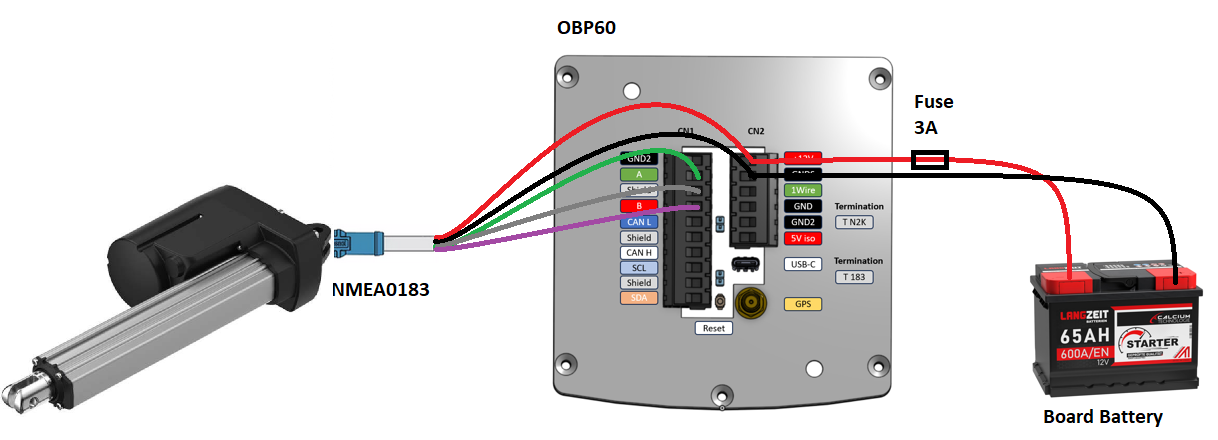
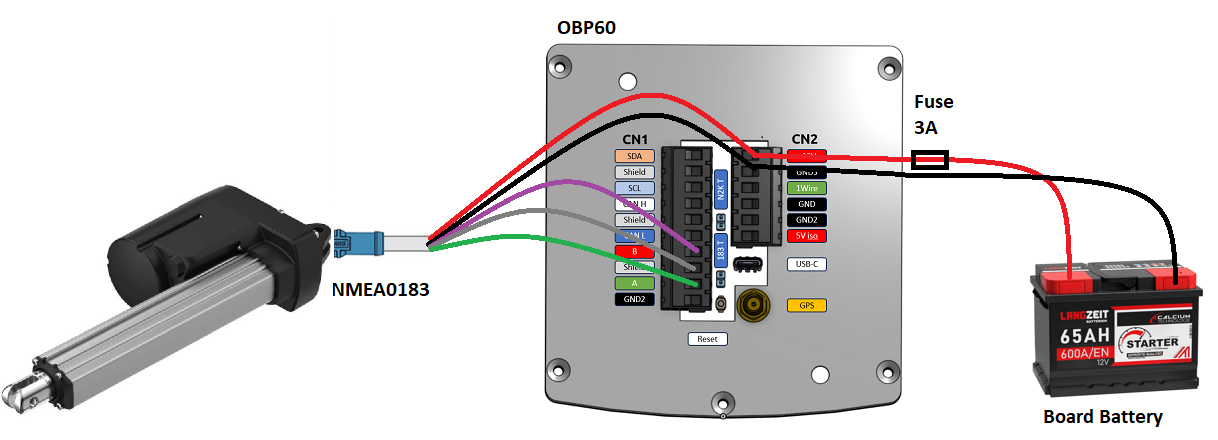
Fix pictures

Changed region(s): [[0.3432, 0.0886, 0.7488, 0.975], [0.6552, 0.8273, 0.6864, 0.8864]]

diff --git a/docs/usermanual/configuration.rst b/docs/usermanual/configuration.rst
@@ -611,7 +611,7 @@ Der Bereich **Display** enthält alle Einstellungen, die das Display betreffen.
     * ``off`` - Die Statuszeile ist deaktiviert.
     
 **Refresh**
-    * ``on`` - Der Auto-Refresh des Bildschirminhaltes ist aktiviert. Damit werden Geisterbilder beim Seitenwechsel unterbunden. Es wird ein Voll-Refresh des E-Ink-Displays durchgeführt. Alle 10 min erfolgt zusätzlich automatisch ein Voll-Refresh.
+    * ``on`` - Der Auto-Refresh des Bildschirminhaltes ist aktiviert. Damit werden Geisterbilder beim Seitenwechsel unterbunden. Es wird ein Voll-Refresh des E-Paper-Displays durchgeführt. Alle 10 min erfolgt zusätzlich automatisch ein Voll-Refresh.
     * ``off`` - Auto-Refresh ist deaktiviert
     
 .. note::
@@ -656,7 +656,7 @@ Der Bereich **Display** enthält alle Einstellungen, die das Display betreffen.
 .. image:: ../pics/Flash_LED.png
              :scale: 45%
              
-Die Flash-LED befindet sich in der linken oberen Ecke über dem E-Ink-Display und zeigt verschiedene Zustände des OBP60 an. Die LED kann dabei verschiedene Farben annehmen, die je nach Verwendung unterschiedliche Bedeutung haben.
+Die Flash-LED befindet sich in der linken oberen Ecke über dem E-Paper-Display und zeigt verschiedene Zustände des OBP60 an. Die LED kann dabei verschiedene Farben annehmen, die je nach Verwendung unterschiedliche Bedeutung haben.
 
     * ``Off`` - Die Flash-LED ist dauerhaft ausgeschaltet.
     * ``Bus Data`` - Bei eintreffenden Busdaten leuchtet die LED kurz blau auf.
